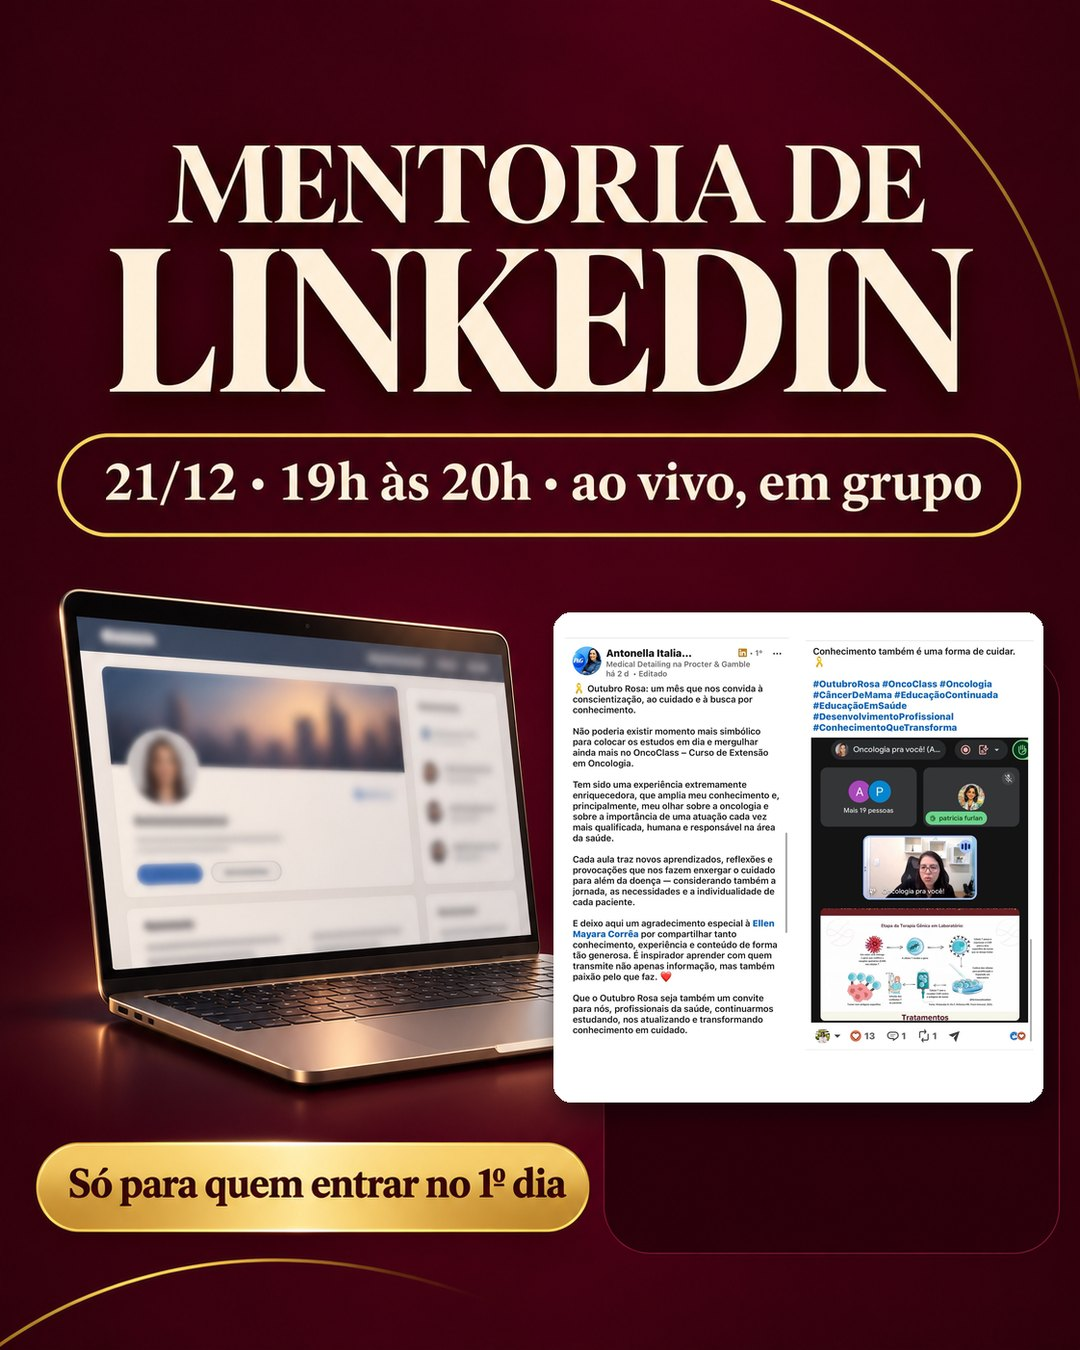
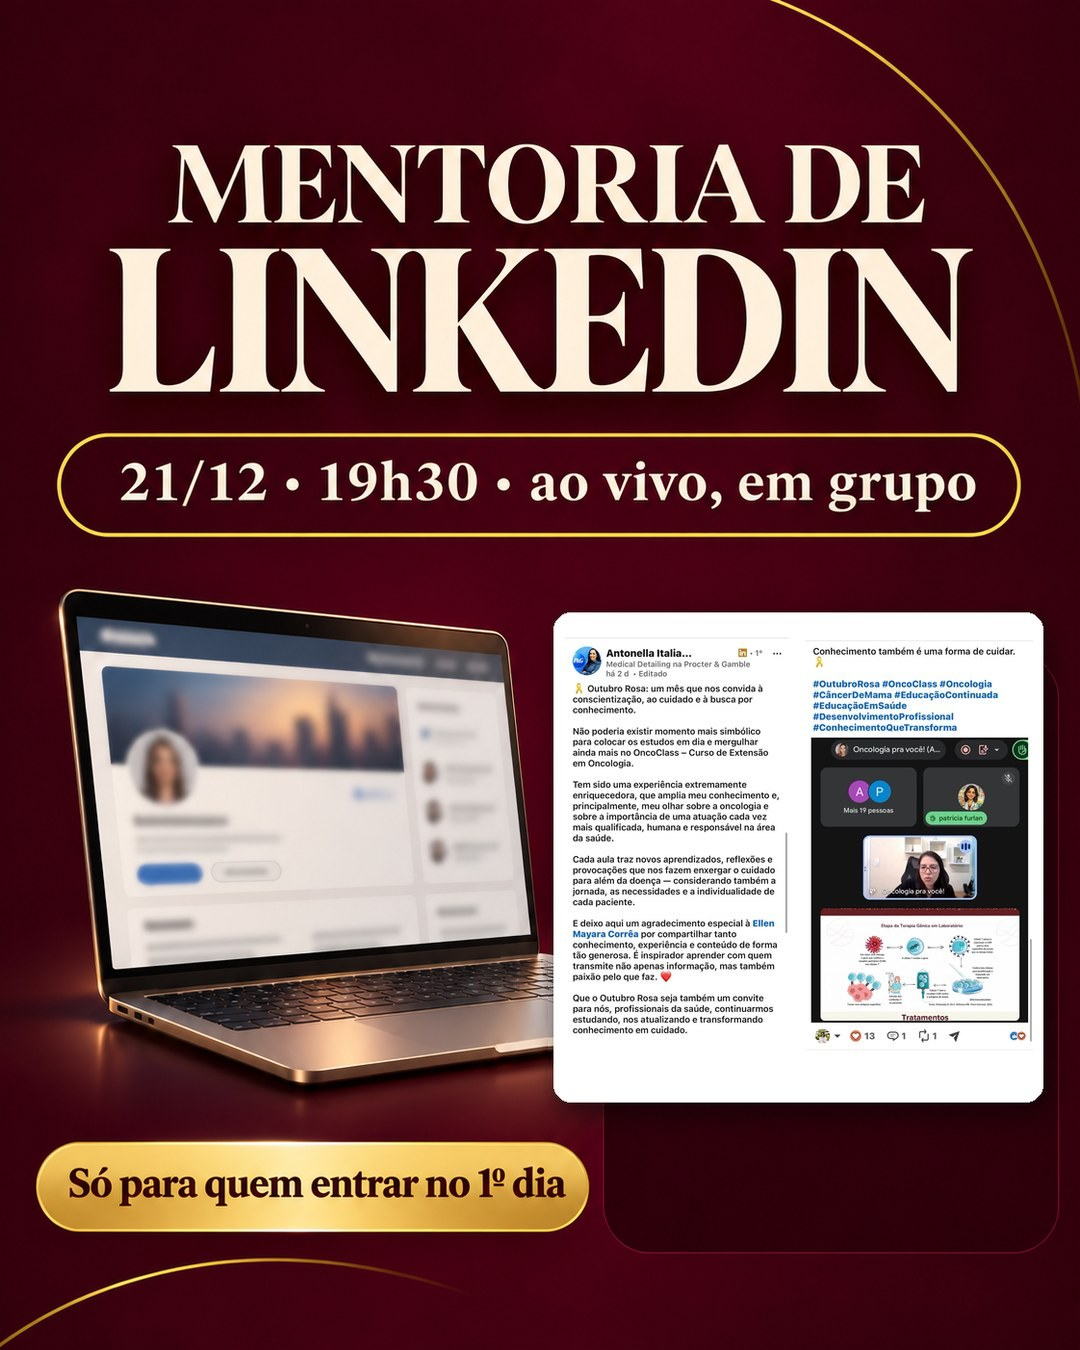
Black 2.0: A06 com 19h30 (mentoria de LinkedIn) e ajuste de comentário

diff --git a/2-0/index.html b/2-0/index.html
@@ -291,7 +291,7 @@ footer .wrap{display:flex;flex-direction:column;gap:14px}
 /* selo da garantia */
 .selo{width:clamp(220px,26vw,320px);aspect-ratio:1;border-radius:26px;overflow:hidden;box-shadow:0 40px 80px -30px rgba(230,194,122,.45);border:1px solid var(--line)}
 .selo img{width:100%;height:100%;object-fit:cover}
-/* janela de aluna */
+/* janela de aluno */
 dialog.alu{border:0;padding:0;background:transparent;max-width:min(460px,calc(100vw - 32px));width:100%;color:var(--ivory)}
 dialog.alu::backdrop{background:rgba(8,2,4,.78);backdrop-filter:blur(6px)}
 .alu .shell{display:block}
